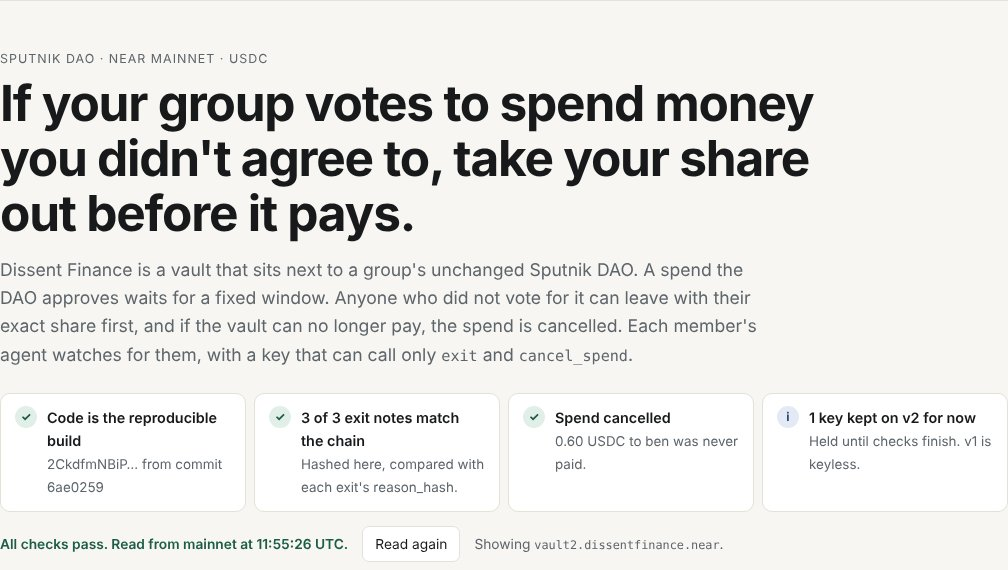
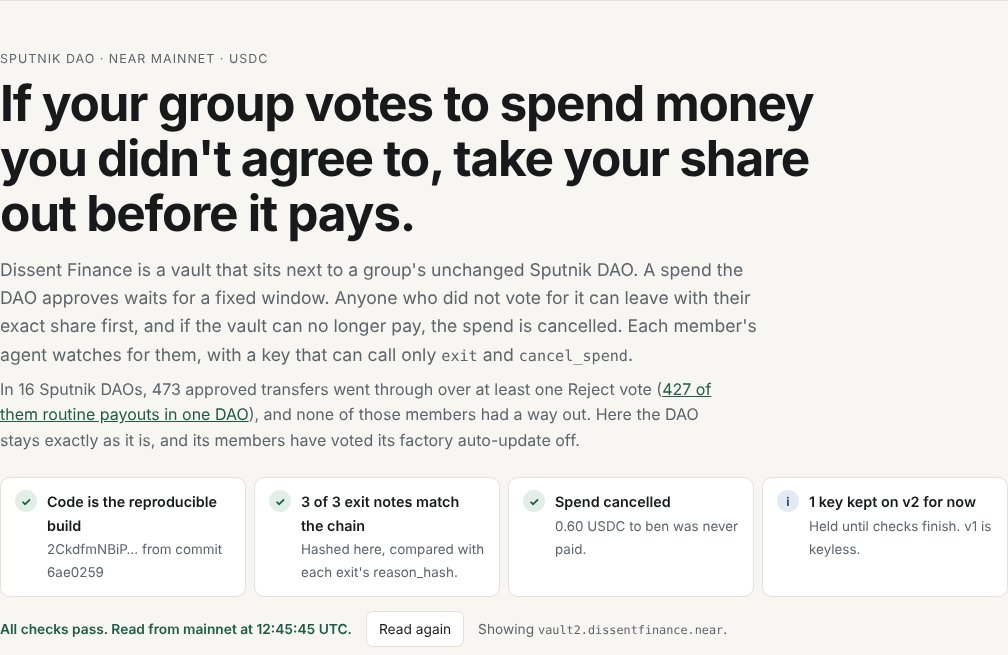
Page: each row links its own transaction; approver who leaves, read from chain; check 23

diff --git a/docs/index.html b/docs/index.html
@@ -202,6 +202,7 @@
     <p class="eyebrow">Sputnik DAO · NEAR mainnet · USDC</p>
     <h1>If your group votes to spend money you didn't agree to, take your share out before it pays.</h1>
     <p class="lede">Dissent Finance is a vault that sits next to a group's unchanged Sputnik DAO. A spend the DAO approves waits for a fixed window. Anyone who did not vote for it can leave with their exact share first, and if the vault can no longer pay, the spend is cancelled. Each member's agent watches for them, with a key that can call only <code>exit</code> and <code>cancel_spend</code>.</p>
+    <p class="sub" style="margin-top:-4px">In 16 Sputnik DAOs, 473 approved transfers went through over at least one Reject vote (<a href="https://github.com/QijomoFav35/Dissent-Finance/blob/main/docs/REPLAY.md">427 of them routine payouts in one DAO</a>), and none of those members had a way out. Here the DAO stays exactly as it is, and its members have voted its factory auto-update off.</p>
     <div class="checks" id="checks">
       <div class="check"><div class="mark">…</div><div><b>Reading mainnet</b><span>Your browser is calling public NEAR RPC.</span></div></div>
     </div>
@@ -311,6 +312,11 @@
       <table class="timeline"><thead><tr><th>Time (UTC)</th><th>Event</th><th>Detail</th></tr></thead><tbody id="timeline"><tr><td colspan="3" class="pending">…</td></tr></tbody></table>
     </div>
 
+    <div id="approver-wrap" hidden>
+      <h3 style="margin-top:28px">An approver who leaves still pays her part</h3>
+      <div class="panel"><p id="approver" style="margin:0"></p></div>
+    </div>
+
     <h3 style="margin-top:28px">The agents' notes</h3>
     <p class="sub">Each agent wrote a note before acting: the rules it checked, the numbers, and its decision. An exit carries the note's SHA-256 as <code>reason_hash</code>. This page fetches each note from the repo, hashes it in your browser, and compares it with the hash on chain.</p>
     <div class="notes" id="notes"><div class="panel pending">…</div></div>
@@ -327,9 +333,11 @@
       <thead><tr><th>The track asks for</th><th>How Dissent Finance meets it</th><th>Proof</th></tr></thead>
       <tbody>
         <tr><td>Build on the existing Sputnik DAO, don't write a new multisig</td><td>The DAO is a stock one from the public <code>sputnik-dao.near</code> factory. The vault is a separate contract; it only accepts a spend after reading the DAO's own record of the approved proposal.</td><td><a href="https://nearblocks.io/address/dissentfinance.sputnik-dao.near">The DAO on mainnet</a></td></tr>
-        <tr><td>Trezu</td><td>Trezu lists the DAO like any other treasury. Both spends show there as executed <code>queue_spend</code> calls on the vaults, each with 2 approving votes (2 needed).</td><td><a href="https://trezu.app/dissentfinance.sputnik-dao.near/requests?tab=Approved">Open it in Trezu</a></td></tr>
-        <tr><td>Shared budgets, collective ownership</td><td>Members own the fund by shares, and nobody can be made to fund a spend they voted against: they can leave with their exact share while it waits.</td><td><a href="#members">Members now</a></td></tr>
+        <tr><td>Trezu</td><td>Trezu lists the DAO like any other treasury. Its requests are the DAO's own proposals: the three spends, each a <code>queue_spend</code> call on a vault with 2 approving votes (2 needed), and the members' vote to turn off the factory's auto-update.</td><td><a href="https://trezu.app/dissentfinance.sputnik-dao.near/requests?tab=Approved">Open it in Trezu</a></td></tr>
+        <tr><td>Shared budgets, collective ownership</td><td>Members own the fund by shares, and nobody can be made to fund a spend they did not approve: they can leave with their exact share while it waits. A member who approved can leave too, but their part of that spend stays behind for it. A member who wants out without taking money from the fund can sell shares to the others instead.</td><td><a href="#members">Members now</a>, <a href="#approver-wrap">the approver who left</a>, <a href="#market">the share sale</a></td></tr>
+        <tr><td>Programmable rules</td><td>Each member's exit rules are stored on chain in the vault: the largest share of the fund one spend may take, whether the receiver must have been paid before (a trust tier the receiver earns by being paid), and blocked receivers. The agent applies them the same way every time, so anyone can replay a decision from its note.</td><td><a href="#try">Try it with your own rules</a></td></tr>
         <tr><td>Named accounts</td><td>Every member, agent key and exit is a named account (<code>alice.dissentfinance.near</code>…). The agents' keys are function-call keys on each member's own account.</td><td><a href="#notes">The notes and their hashes</a></td></tr>
+        <tr><td>Use it with a DAO you already run</td><td>Three things to set up and no migration: deploy the vault next to the DAO, members join, and spends become ordinary <code>queue_spend</code> proposals. A 0.1% fee on each paid spend is the only revenue.</td><td><a href="https://github.com/QijomoFav35/Dissent-Finance/blob/main/docs/ADOPT.md">docs/ADOPT.md</a></td></tr>
       </tbody>
     </table></div>
     <div class="logos">
@@ -409,6 +417,8 @@ const esc = (s) => String(s).replace(/[&<>"']/g, (c) => ({ "&": "&amp;", "<": "&
 const short = (a) => esc(String(a).replace(".dissentfinance.near", ""));
 const cap = (s) => s.charAt(0).toUpperCase() + s.slice(1);
 const usdc = (u) => (Number(BigInt(u)) / 1e6).toFixed(2);
+// Every digit, for the small amounts of the later rounds.
+const u6 = (u) => String(Number(BigInt(u)) / 1e6);
 const near = (y) => (Number(BigInt(y) / 10n ** 20n) / 1e4).toFixed(2);
 const tx = (h) => `<a class="mono" href="https://nearblocks.io/txns/${esc(h)}">${esc(h.slice(0, 8))}</a>`;
 const when = (ns) => new Date(Number(BigInt(ns) / 1_000_000n)).toISOString().replace("T", " ").slice(0, 19);
@@ -474,17 +484,23 @@ async function load() {
     const evidence = evidenceText.split("\n").filter(Boolean).map((l) => { try { return JSON.parse(l); } catch { return null; } })
       .filter((e) => e && (e.vault ?? "vault.dissentfinance.near") === VAULT);
     const txFor = {};
+    // Later rounds reuse the same accounts and steps, so every lookup is keyed by round or by id.
+    const joinTx = {}, voteTx = {}, execTx = {}, settleTx = {};
+    let approverExit = null;
     for (const e of evidence) {
-      if (e.step === "join") txFor[`join:${e.account}`] = e.tx;
-      if (e.step === "propose") txFor.propose = e.tx;
-      if (e.step === "vote") txFor[`vote:${e.voter}`] = e.tx;
+      if (e.step === "join") (joinTx[`${e.round === 3 ? 3 : 1}:${e.account}`] ??= []).push(e.tx);
+      if (e.step === "propose" && e.round !== 3) txFor.propose = e.tx;
+      if (e.step === "vote") voteTx[`${e.proposal_id}:${e.voter}`] = e.tx;
+      if (e.step === "execute_spend") execTx[e.spend_id] = e.tx;
+      if (e.step === "market_settle") settleTx[e.offer_id] = e.tx;
+      if (e.step === "approver_exit") approverExit = e;
       if (e.step === "exits_and_cancel") {
         txFor["exit:emma.dissentfinance.near"] = e.emma_exit;
         txFor["exit:dan.dissentfinance.near"] = e.dan_exit;
         txFor["exit:alice.dissentfinance.near"] = e.alice_exit;
         txFor.cancel = e.cara_cancel;
       }
-      if (e.step === "exit") txFor[`exit:${e.account}`] = e.tx;
+      if (e.step === "exit" && e.round !== 3) txFor[`exit:${e.account}`] = e.tx;
       if (e.step === "cancel") txFor.cancel = e.tx;
     }
 
@@ -552,17 +568,47 @@ async function load() {
 
     // ---------- timeline from the vault's record ----------
     const rows = [];
+    const joinsSeen = {};
+    const later = (ev) => cancel && BigInt(ev.ts) > BigInt(cancel.ts);
     for (const ev of record) {
       const d = ev.data?.[0] ?? {};
       const at = when(ev.ts);
+      const joinKey = `${later(ev) ? 3 : 1}:${d.account_id}`;
       const live = (ev.event === "queue_spend" || ev.event === "exit" || ev.event === "cancel_spend") && queuedAt && BigInt(ev.ts) >= BigInt(queuedAt) && BigInt(ev.ts) <= settledAt;
       if (ev.event === "pending_deposit") rows.push([at, "deposit", `${short(d.account_id)} sent ${usdc(d.usdc)} USDC to join`, live]);
-      else if (ev.event === "join") rows.push([at, "join", `${short(d.account_id)} put in ${near(d.near)} NEAR and ${usdc(d.usdc)} USDC${txFor[`join:${d.account_id}`] ? ` ${tx(txFor[`join:${d.account_id}`])}` : ""}`, live]);
+      else if (ev.event === "join") {
+        const i = (joinsSeen[joinKey] = (joinsSeen[joinKey] ?? -1) + 1);
+        const h = joinTx[joinKey]?.[i];
+        rows.push([at, "join", `${short(d.account_id)} ${later(ev) ? "joined again with" : "put in"} ${near(d.near)} NEAR and ${usdc(d.usdc)} USDC${h ? ` ${tx(h)}` : ""}`, live]);
+      }
       else if (ev.event === "set_rules") rows.push([at, "rules", `${short(d.account_id)} set exit rules`, live]);
-      else if (ev.event === "queue_spend") rows.push([at, "<strong>spend queued</strong>", `${usdc(d.amount)} USDC to ${short(d.recipient)}, ${Number(d.approve)} approved, ${Number(d.not_approve)} did not${txFor["vote:cara.dissentfinance.near"] ? `. Approving vote: ${tx(txFor["vote:cara.dissentfinance.near"])}` : ""}`, live]);
-      else if (ev.event === "exit") rows.push([at, '<span class="pill exit">exit</span>', `${short(d.account_id)} left with ${usdc(d.usdc)} USDC and ${near(d.near)} NEAR, note hash <span class="mono">${esc((d.reason_hash || "").slice(0, 12))}…</span>${txFor[`exit:${d.account_id}`] ? ` ${tx(txFor[`exit:${d.account_id}`])}` : ""}`, live]);
+      else if (ev.event === "queue_spend") {
+        // The vote that queued it is the last approving vote on its own DAO proposal.
+        const v = voteTx[`${d.proposal_id}:cara.dissentfinance.near`] ?? voteTx[`${d.proposal_id}:ben.dissentfinance.near`];
+        rows.push([at, "<strong>spend queued</strong>", `spend ${Number(d.spend_id)}: ${usdc(d.amount)} USDC to ${short(d.recipient)}, ${Number(d.approve)} approved, ${Number(d.not_approve)} did not${v ? `. Queued by the vote on proposal ${Number(d.proposal_id)}: ${tx(v)}` : ""}`, live]);
+      }
+      else if (ev.event === "exit") {
+        const mine = approverExit && later(ev) && approverExit.account === d.account_id;
+        const h = mine ? approverExit.tx : txFor[`exit:${d.account_id}`];
+        const why = d.reason_hash ? `note hash <span class="mono">${esc(d.reason_hash.slice(0, 12))}…</span>` : "no rule broken: an approver leaving by choice";
+        rows.push([at, '<span class="pill exit">exit</span>', `${short(d.account_id)} left with ${later(ev) ? u6(d.usdc) : usdc(d.usdc)} USDC and ${near(d.near)} NEAR, ${why}${mine ? `; ${u6(approverExit.holds.reduce((a, x) => a + BigInt(x[1]), 0n))} USDC of her part held back for spend ${Number(approverExit.spend_id)}` : ""}${h ? ` ${tx(h)}` : ""}`, live]);
+      }
+      else if (ev.event === "execute_spend") rows.push([at, '<span class="pill stay">paid</span>', `spend ${Number(d.spend_id)} paid ${u6(d.amount)} USDC to ${short(d.recipient)} plus a ${u6(d.fee)} USDC fee${execTx[d.spend_id] ? ` ${tx(execTx[d.spend_id])}` : ""}`, live]);
+      else if (ev.event === "share_sale") rows.push([at, '<span class="pill done">share sale</span>', `${short(d.seller)} sold shares to ${short(d.buyer)} for ${String(Number(BigInt(d.usdc)) / 1e6)} USDC after ${Number(d.bids)} agent bids; the fund did not move${settleTx[d.offer_id] ? ` ${tx(settleTx[d.offer_id])}` : ""}`, live]);
       else if (ev.event === "cancel_spend") rows.push([at, '<span class="pill done">cancelled</span>', `spend ${d.spend_id} cancelled by ${short(d.by)}'s agent: the vault could no longer pay it${txFor.cancel ? ` ${tx(txFor.cancel)}` : ""}`, live]);
       else rows.push([at, esc(ev.event), `<span class="mono">${esc(JSON.stringify(d)).slice(0, 160)}</span>`, live]);
+    }
+    // ---------- the approver who left during spend 1 ----------
+    const spend1 = await view(VAULT, "get_spend", { spend_id: 1 }).catch(() => null);
+    const q1 = record.find((ev) => ev.event === "queue_spend" && ev.data?.[0]?.spend_id === 1);
+    const x1 = record.find((ev) => ev.event === "execute_spend" && ev.data?.[0]?.spend_id === 1);
+    const leaver = spend1 && q1 ? record.find((ev) => ev.event === "exit" && spend1.approvers.includes(ev.data?.[0]?.account_id) && BigInt(ev.ts) > BigInt(q1.ts) && BigInt(ev.ts) < BigInt(spend1.window_ends)) : null;
+    if (spend1 && leaver) {
+      const who = leaver.data[0].account_id;
+      const held = approverExit?.account === who ? approverExit.holds.reduce((a, x) => a + BigInt(x[1]), 0n) : null;
+      const cost = BigInt(spend1.amount) + (x1 ? BigInt(x1.data[0].fee) : 0n);
+      $("approver").innerHTML = `Spend 1, ${u6(spend1.amount)} USDC to ${cap(short(spend1.recipient))}, was approved by ${spend1.approvers.map((a) => cap(short(a))).join(" and ")}. ${cap(short(who))} left ${secs(q1.ts, leaver.ts)} s after it was queued, while it was still open: under the vault's earlier code she could not have. She took ${u6(leaver.data[0].usdc)} USDC and her ${near(leaver.data[0].near)} NEAR${held != null ? `, and ${u6(held)} USDC, her part of the spend, stayed behind for it` : ""}${approverExit ? ` (${tx(approverExit.tx)})` : ""}. Status now: <span class="pill ${spend1.status === "Executed" ? "stay" : "info"}">${esc(spend1.status)}</span>${x1 ? `. When it paid, that part paid her share${held != null ? `, and the members who stayed paid the other ${u6(cost - held)} USDC of its ${u6(cost)} USDC cost` : ""}${execTx[1] ? ` (${tx(execTx[1])})` : ""}` : ""}. Leaving after approving saves nothing.`;
+      $("approver-wrap").hidden = false;
     }
     $("timeline").innerHTML = rows.map(([a, b, c, live]) => `<tr${live ? ' data-live="1"' : ""}><td>${a}</td><td>${b}</td><td>${c}</td></tr>`).join("") || '<tr><td colspan="3">No events.</td></tr>';
     const exitHash = {};

diff --git a/tests/page/page.test.js b/tests/page/page.test.js
@@ -68,6 +68,32 @@ function chainV2() {
   };
 }
 
+// v2 after round 3, as the chain holds it on 13 November: Alice, Dan and Emma back in, the share sale,
+// spend 1 approved by Ben and Cara, Cara leaving while it was open, and spend 1 paid.
+function chainV3() {
+  const record = JSON.parse(fs.readFileSync(path.join(here, "fixtures", "v2-record-r3.json"), "utf8"));
+  const v2 = chainV2();
+  const spend1 = { id: 1, proposal_id: 3, recipient: N("ben"), token: "Usdc", amount: "70000", memo: "approver story", approvers: [N("ben"), N("cara")], objectors: [], queued_at: "1794563704159595345", window_ends: "1794564304159595345", status: "Executed" };
+  const offer = { id: 0, seller: N("cara"), shares: "16327359938463994543033", reserve: "80999", ends_at: "1794563263529550665", best_bidder: N("dan"), best_bid: "85979", bids: 7, status: "Sold" };
+  const shares = { [N("emma")]: "50000000000000000000000", [N("ben")]: "100000000000000000000000", [N("alice")]: "50000000000000000000000", [N("dan")]: "66327359938463994543033" };
+  return {
+    ...v2,
+    get_record_len: record.length,
+    get_record: record,
+    get_spend: (a) => (a.spend_id === 1 ? spend1 : v2.get_spend),
+    get_balances: { near: "266327359938463994543033", usdc: "479337", total_shares: "266327359938463994543033", members: 4, open_spends: 0 },
+    get_members: Object.entries(shares),
+    get_shares: (a) => shares[a.account_id] ?? "0",
+    get_ledger: (a) => (a.token === "Usdc" ? { balance: "479337", in_flight: "0", claimable: "0", pending_joins: "0", deposited: "1300000", spent: "70000", fees: "70", exited: "750593", refunded: "0", held: "0" } : { balance: "266327359938463994543033", in_flight: "0", claimable: "0", pending_joins: "0", deposited: "653000000000000000000000", spent: "0", fees: "0", exited: "383672640061536005456967", refunded: "3000000000000000000000", held: "0" }),
+    ft_balance_of: (a) => (a.account_id === "vault2.dissentfinance.near" ? "693358" : "0"),
+    get_bid_funds_totals: ["214021", "300000"],
+    get_open_offers: [],
+    get_offers: (a) => (a.from_index === 0 ? [offer] : []),
+    get_offer_count: 1,
+    vaultKeys: [{ access_key: { permission: "FullAccess" } }],
+  };
+}
+
 async function open(views, { width = 1200, query = "?v=vault", guard = { status: "in_progress", run_number: 7 } } = {}) {
   const browser = await chromium.launch();
   const page = await browser.newPage({ viewport: { width, height: 900 } });
@@ -207,6 +233,31 @@ test("share market: code from before it says so; after the redeploy, offers and 
   }
 });
 
+test("after round 3: every row links its own transaction, and the approver's exit and spend 1 read from the chain", async () => {
+  const p = await open(chainV3(), { query: "" });
+  try {
+    await p.page.waitForFunction(() => !document.getElementById("approver-wrap").hidden, null, { timeout: 20000 });
+    const tl = await p.text("#timeline");
+    // Spend 0 was queued by Cara's vote on proposal 1, spend 1 by her vote on proposal 3: never the other one.
+    assert.match(tl, /spend 0: 0\.60 USDC to ben.*proposal 1: DpKwEZ8L/);
+    assert.match(tl, /spend 1: 0\.07 USDC to ben.*proposal 3: 9MgxBmfv/);
+    // The first joins and the rejoins each carry their own transaction.
+    assert.match(tl, /alice joined again with 0\.05 NEAR and 0\.10 USDC CjTqZ3ij/);
+    assert.equal((tl.match(/CjTqZ3ij/g) || []).length, 1, "Alice's rejoin transaction appears once, on the rejoin");
+    assert.match(tl, /share sale\s*cara sold shares to dan for 0\.085979 USDC after 7 agent bids; the fund did not move A1cR7MQV/);
+    assert.match(tl, /cara left with 0\.150593 USDC and 0\.08 NEAR, no rule broken: an approver leaving by choice; 0\.016752 USDC of her part held back for spend 1 53qLDWKV/);
+    assert.match(tl, /paid\s*spend 1 paid 0\.07 USDC to ben plus a 0\.00007 USDC fee 9osUXBVn/);
+    assert.doesNotMatch(tl, /\{"/, "no event is shown as raw JSON");
+    const ap = await p.text("#approver");
+    assert.match(ap, /approved by Ben and Cara\. Cara left 100\.137 s after it was queued, while it was still open/);
+    assert.match(ap, /0\.016752 USDC, her part of the spend, stayed behind for it/);
+    assert.match(ap, /Executed.*the members who stayed paid the other 0\.053318 USDC of its 0\.07007 USDC cost/);
+    assert.deepEqual(p.errors, []);
+  } finally {
+    await p.close();
+  }
+});
+
 test("v2: when GitHub's API refuses, the guard row says so instead of failing", async () => {
   const p = await open(chainV2(), { query: "", guard: null });
   try {
@@ -256,7 +307,7 @@ test("on a phone the page does not scroll sideways", async () => {
 if (process.env.README_SHOTS) {
   test("README screenshots", async () => {
     const offer = { id: 0, seller: N("cara"), shares: "16327359938463994543033", reserve: "80999", ends_at: "1794563263529550665", best_bidder: N("dan"), best_bid: "85979", bids: 7, status: "Sold" };
-    const views = { ...chainV2(), get_bid_funds_totals: ["214021", "300000"], get_open_offers: [], get_offers: (a) => (a.from_index === 0 ? [offer] : []), get_offer_count: 1, vaultKeys: [{ access_key: { permission: "FullAccess" } }] };
+    const views = chainV3();
     const p = await open(views, { query: "", width: 1200 });
     try {
       await p.page.waitForFunction(() => !document.getElementById("proofrows").textContent.includes("Reading") && !document.getElementById("mkt-bids-wrap").hidden, null, { timeout: 20000 });

diff --git a/agent/test/fixtures/mainnet-mock.js b/agent/test/fixtures/mainnet-mock.js
@@ -28,14 +28,19 @@ if(R3){
  for(const m of ['alice','dan','emma']) record.push(ev('join',{account_id:N(m),shares:'50',near:'51000000000000000000000',usdc:'100000'},'2026-11-13T15:00:00Z'));
  record.push(ev('offer',{offer_id:0,seller:N('cara'),shares:'50',reserve:'90000',ends_at:offer.ends_at},'2026-11-13T15:00:10Z'));
  record.push(ev('share_sale',{offer_id:0,seller:N('cara'),buyer:N('dan'),shares:'50',usdc:'97000',bids:3},'2026-11-13T15:10:05Z'));
+ record.push(ev('queue_spend',{spend_id:1,proposal_id:3,recipient:N('ben'),amount:'70000',approve:2,not_approve:0},'2026-11-13T09:55:04Z'));
+ record.push(ev('exit',{account_id:N('cara'),shares:'40',near:'40',usdc:'150593',reason_hash:null},'2026-11-13T09:56:44Z'));
+ record.push(ev('execute_spend',{spend_id:1,recipient:N('ben'),amount:'70000',fee:'70'},'2026-11-13T10:12:02Z'));
 }
 const fc=(r,methods)=>({access_key:{permission:{FunctionCall:{allowance:'1',method_names:methods??(BAD&&r==='x'?['exit','set_rules']:['exit','cancel_spend']),receiver_id:r}}}});
 const marketKey=(a)=>R3&&['alice','dan','emma','cara'].map(N).includes(a)?[fc(V,['bid','settle_offer'])]:[];
 const args=Buffer.from(JSON.stringify({proposal_id:1,recipient:N('ben'),token_id:USDC,amount:'600000',memo:'group spend'})).toString('base64');
+const spend1={id:1,proposal_id:3,recipient:N('ben'),token:'Usdc',amount:'70000',memo:'approver story',approvers:[N('ben'),N('cara')],objectors:[],queued_at:ts('2026-11-13T09:55:04Z'),window_ends:ts('2026-11-13T10:05:04Z'),status:'Executed'};
 const views={
  [V]:{contract_source_metadata:{link:'https://github.com/QijomoFav35/Dissent-Finance/tree/6ae02598ff28e45046523b940a6bcf061705fe50'},
   get_config:{dao:DAO,usdc:USDC,fee_account:'dissentfinance.near',window_ns:'600000000000'},
-  get_spend:{id:0,proposal_id:1,recipient:N('ben'),token:'Usdc',amount:'600000',memo:'group spend',approvers:[N('ben'),N('cara')],objectors:[],queued_at:'1794490269844300751',window_ends:'1794490869844300751',status:'Cancelled'},
+  get_spend:(a)=>a.spend_id===1?spend1:{id:0,proposal_id:1,recipient:N('ben'),token:'Usdc',amount:'600000',memo:'group spend',approvers:[N('ben'),N('cara')],objectors:[],queued_at:'1794490269844300751',window_ends:'1794490869844300751',status:'Cancelled'},
+  get_spends:(a)=>a.from_index===0?(R3?[{id:0,proposal_id:1,recipient:N('ben'),token:'Usdc',amount:'600000',memo:'group spend',approvers:[N('ben'),N('cara')],objectors:[],queued_at:'1794490269844300751',window_ends:'1794490869844300751',status:'Cancelled'},spend1]:[{id:0,proposal_id:1,recipient:N('ben'),token:'Usdc',amount:'600000',memo:'group spend',approvers:[N('ben'),N('cara')],objectors:[],queued_at:'1794490269844300751',window_ends:'1794490869844300751',status:'Cancelled'}]):[],
   get_record_len:record.length,get_record:record,
   get_balances:{near:'200000000000000000000000',usdc:'400000',total_shares:'200',members:2,open_spends:0},
   get_members:[[N('ben'),'100'],[N('cara'),'100']],

diff --git a/agent/test/verify.test.js b/agent/test/verify.test.js
@@ -28,10 +28,11 @@ test("on code from before the market, the market checks say so as INFO", async (
     assert.ok(out.results.length >= 22, `expected at least 22 checks, got ${out.results.length}`);
     // INFO, not PASS or FAIL: v2's key, and the market checks on code from before the market.
     const info = out.results.filter((r) => r.status === "INFO").map((r) => r.what);
-    assert.equal(info.length, 3);
+    assert.equal(info.length, 4);
     assert.match(info[0], /still has 1 access key/);
     assert.match(info[1], /before held-back exits/);
-    assert.match(info[2], /before the share market/);
+    assert.match(info[2], /before held-back exits/);
+    assert.match(info[3], /before the share market/);
     assert.ok(out.results.some((r) => /runs DtHZA1/.test(r.what) && r.status === "PASS"), "the DAO code check");
     assert.ok(out.results.some((r) => /sandbox tests deploy/.test(r.what) && r.status === "PASS"), "the sandbox bytes check");
   } finally {
@@ -88,6 +89,8 @@ test("after the third run: the DAO lock, rejoined leavers, market keys and a sha
     assert.equal(by(/held back for open spends/).status, "PASS");
     assert.match(by(/share sale/).what, /offer 0: cara to dan for 0\.097 USDC after 3 bids/);
     assert.match(by(/USDC contract says/).what, /300000 of it bid funds/);
+    assert.equal(by(/approved spend 1 and left while it was open/).status, "PASS");
+    assert.match(by(/approved spend 1/).what, /cara approved spend 1 and left while it was open; it is Executed/);
     assert.deepEqual(out.results.filter((r) => r.status === "INFO").map((r) => r.n), [2]);
   } finally {
     mock.close();

diff --git a/JUDGE.md b/JUDGE.md
@@ -9,7 +9,7 @@ Every claim below links to the chain or to the code at commit `6ae0259`, the exa
 | Criterion | What to look at | Proof |
 |---|---|---|
 | **Technical** | A vault of about 1,500 lines that reads each approved proposal back from the DAO and checks it byte for byte before queueing; pro-rata exits rounded in the vault's favour; held-back parts for approvers who leave; a share-sale auction that never moves the fund. 82 contract tests including two property tests, 10 sandbox tests against the real mainnet Sputnik code, 53 agent tests, 9 page tests, all in CI | [queue_spend](https://github.com/QijomoFav35/Dissent-Finance/blob/6ae02598ff28e45046523b940a6bcf061705fe50/contracts/vault/src/lib.rs#L391), [check_proposal](https://github.com/QijomoFav35/Dissent-Finance/blob/6ae02598ff28e45046523b940a6bcf061705fe50/contracts/vault/src/checks.rs#L23), [exit_amounts (holds)](https://github.com/QijomoFav35/Dissent-Finance/blob/6ae02598ff28e45046523b940a6bcf061705fe50/contracts/vault/src/lib.rs#L763), [settle_offer](https://github.com/QijomoFav35/Dissent-Finance/blob/6ae02598ff28e45046523b940a6bcf061705fe50/contracts/vault/src/market.rs#L178), [property test](https://github.com/QijomoFav35/Dissent-Finance/blob/6ae02598ff28e45046523b940a6bcf061705fe50/contracts/vault/src/prop_tests.rs#L689), [sandbox story](https://github.com/QijomoFav35/Dissent-Finance/blob/6ae02598ff28e45046523b940a6bcf061705fe50/contracts/vault/tests/sputnik_flow.rs#L11) |
-| **Works on mainnet, checkably** | Three live runs with native USDC; a reproducible build; one read-only command checks 22 things against one final block, and runs hourly in CI | [docs/MAINNET.md](docs/MAINNET.md), `node agent/mainnet/verify.mjs`, [Mainnet verify runs](https://github.com/QijomoFav35/Dissent-Finance/actions/workflows/watch.yml) |
+| **Works on mainnet, checkably** | Three live runs with native USDC; a reproducible build; one read-only command checks 23 things against one final block, and runs hourly in CI | [docs/MAINNET.md](docs/MAINNET.md), `node agent/mainnet/verify.mjs`, [Mainnet verify runs](https://github.com/QijomoFav35/Dissent-Finance/actions/workflows/watch.yml) |
 | **Originality** | Ragequit next to an unchanged Sputnik DAO, which has none; agents that leave on the member's own rules with a hashed note; an approver who leaves pays their part instead of being locked in as in Moloch; a market price for leaving | [README, Why this](README.md#why-this-and-what-is-new), [RULES.md](RULES.md) |
 | **Track fit (Social Money)** | Collective ownership by shares; shared budgets where every spend waits out a window; built on the existing DAO and visible in Trezu; named accounts for every member, agent key and exit. The "never paid before" rule is a trust tier earned by being paid | [Trezu requests](https://trezu.app/dissentfinance.sputnik-dao.near/requests?tab=Approved), [screenshot](docs/images/trezu-requests.jpg) |
 | **Safety of agents** | Agent keys are function-call keys on each member's own account, limited to `exit` and `cancel_spend` (market keys to `bid` and `settle_offer`), no deposit. The runtime's own refusals are recorded | [evaluate](https://github.com/QijomoFav35/Dissent-Finance/blob/6ae02598ff28e45046523b940a6bcf061705fe50/agent/src/rules.js#L27), [key refusals](docs/MAINNET.md#runs-2-and-3-v2), [sandbox key test](https://github.com/QijomoFav35/Dissent-Finance/blob/6ae02598ff28e45046523b940a6bcf061705fe50/contracts/vault/tests/sputnik_flow.rs#L213) |
@@ -41,7 +41,7 @@ It sends nothing and reads one final block. It checks:
 - the first spend `Cancelled` with the DAO proposal's arguments equal to the spend and its votes equal to the approvers, and the record's order;
 - every exit's `reason_hash` against the hash of its published note, computed with the agent's own code;
 - shares adding up, the USDC and NEAR books balancing, and the USDC contract's own balance for the vault;
-- what is held back for open spends, and every share sale at or above its reserve and in the record.
+- what is held back for open spends, every approver who left while a spend they approved was open (and that the spend still settled), and every share sale at or above its reserve and in the record.
 
 Each line is `PASS`, `FAIL` or `INFO`; it ends with `All checks passed` (exit code 0) or the number of failures. To rebuild the deployed code from source (Docker and `cargo-near`): `near contract verify deployed-at vault2.dissentfinance.near network-config mainnet now`.
 

diff --git a/docs/TESTING.md b/docs/TESTING.md
@@ -68,13 +68,13 @@ You need Rust 1.95 (pinned in `rust-toolchain.toml`) with the `wasm32-unknown-un
    node agent/mainnet/verify.mjs --vault vault
    ```
 
-   For v2 and then v1, it reads one final block and prints about 22 numbered checks, each PASS, FAIL or INFO:
+   For v2 and then v1, it reads one final block and prints about 23 numbered checks, each PASS, FAIL or INFO:
 
    - the vault's code hash and the commit its NEP-330 metadata names; its access keys (INFO on v2, which still has its key; FAIL if v1 ever had one); the DAO and token it answers to;
    - the DAO's code is the code `sputnik-dao.near` publishes as its default, and the same bytes as `contracts/vault/res/sputnikdao2.wasm`, which the sandbox tests deploy; the DAO's policy (one council of the five named members, no Everyone role, two votes); that the DAO's factory auto-update is off (FAIL if it is ever switched back on);
    - every member's agent key, read from their own account: a function-call key for `exit` and `cancel_spend` on the vault, and at most a market key for `bid` and `settle_offer`, nothing more;
    - spend 0 is `Cancelled`; the DAO proposal is Approved and its `queue_spend` arguments are the spend; the Approve votes are the spend's approvers; the vault's record shows the queue, the exits and the cancel in that order, inside the window;
    - for each exit, the `reason_hash` in the vault's record equals the hash of the published note, computed on your machine, and so does the one in the exit transaction while the RPC endpoints still serve it (older transactions need an archival node; the line says which was compared); leavers hold no shares unless the record shows them joining again after the cancel;
-   - the remaining shares add up; the USDC and NEAR books balance (held = deposited - spent - fees - exited - refunded); the USDC contract's own balance for the vault covers what the vault owes members, bid funds included; what is held back for open spends equals the sum of their holds; every share sale was at or above its reserve and is in the vault's record (both INFO on code from before the market).
+   - the remaining shares add up; the USDC and NEAR books balance (held = deposited - spent - fees - exited - refunded); the USDC contract's own balance for the vault covers what the vault owes members, bid funds included; what is held back for open spends equals the sum of their holds; any approver who left while a spend they approved was open, and what became of that spend; every share sale was at or above its reserve and is in the vault's record (both INFO on code from before the market).
 
    It should end with `All checks passed`. The exit code is the number of failed checks. `--json` prints the same checks as JSON. The `Mainnet verify` workflow runs it every hour.

diff --git a/README.md b/README.md
@@ -46,7 +46,7 @@ Five friends put 10 NEAR and 100 USDC each into a vault. At 3am Ben and Cara, tw
 
 ```sh
 git clone https://github.com/QijomoFav35/Dissent-Finance && cd Dissent-Finance
-node agent/mainnet/verify.mjs               # v2: 22 checks, read-only, Node 20+, no installs
+node agent/mainnet/verify.mjs               # v2: 23 checks, read-only, Node 20+, no installs
 node agent/mainnet/verify.mjs --vault vault # v1
 near contract verify deployed-at vault2.dissentfinance.near network-config mainnet now   # rebuilds the deployed code (Docker)
 ```
